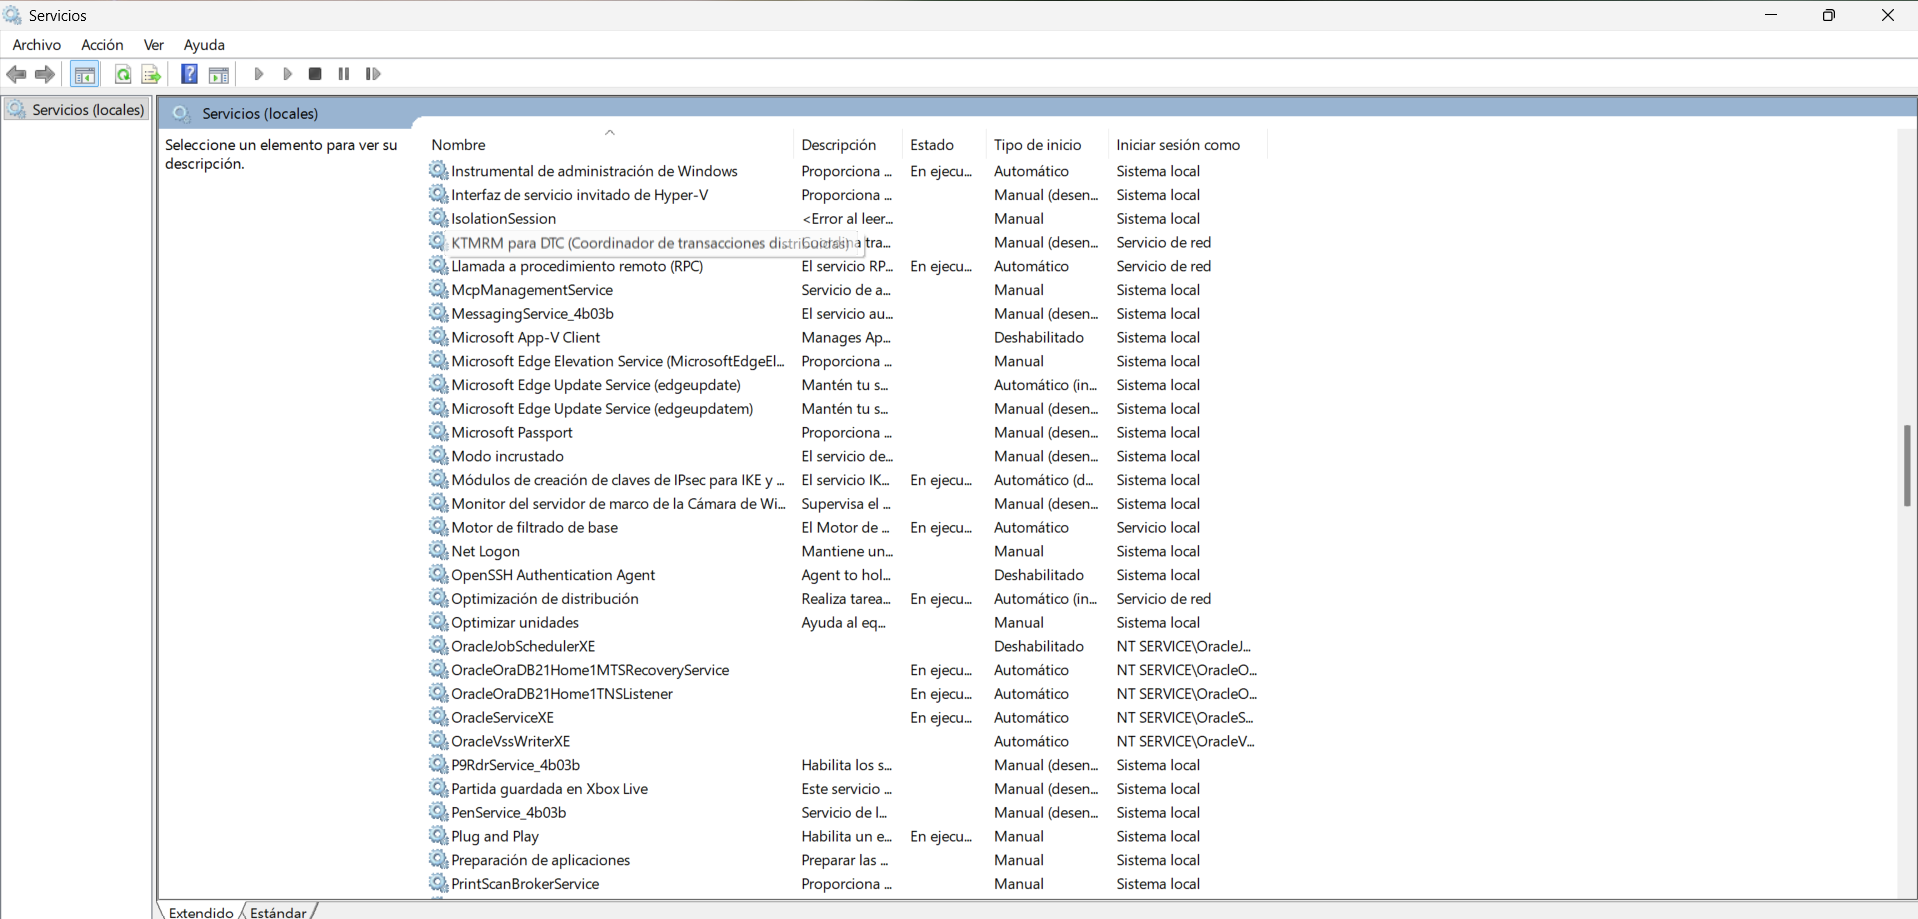
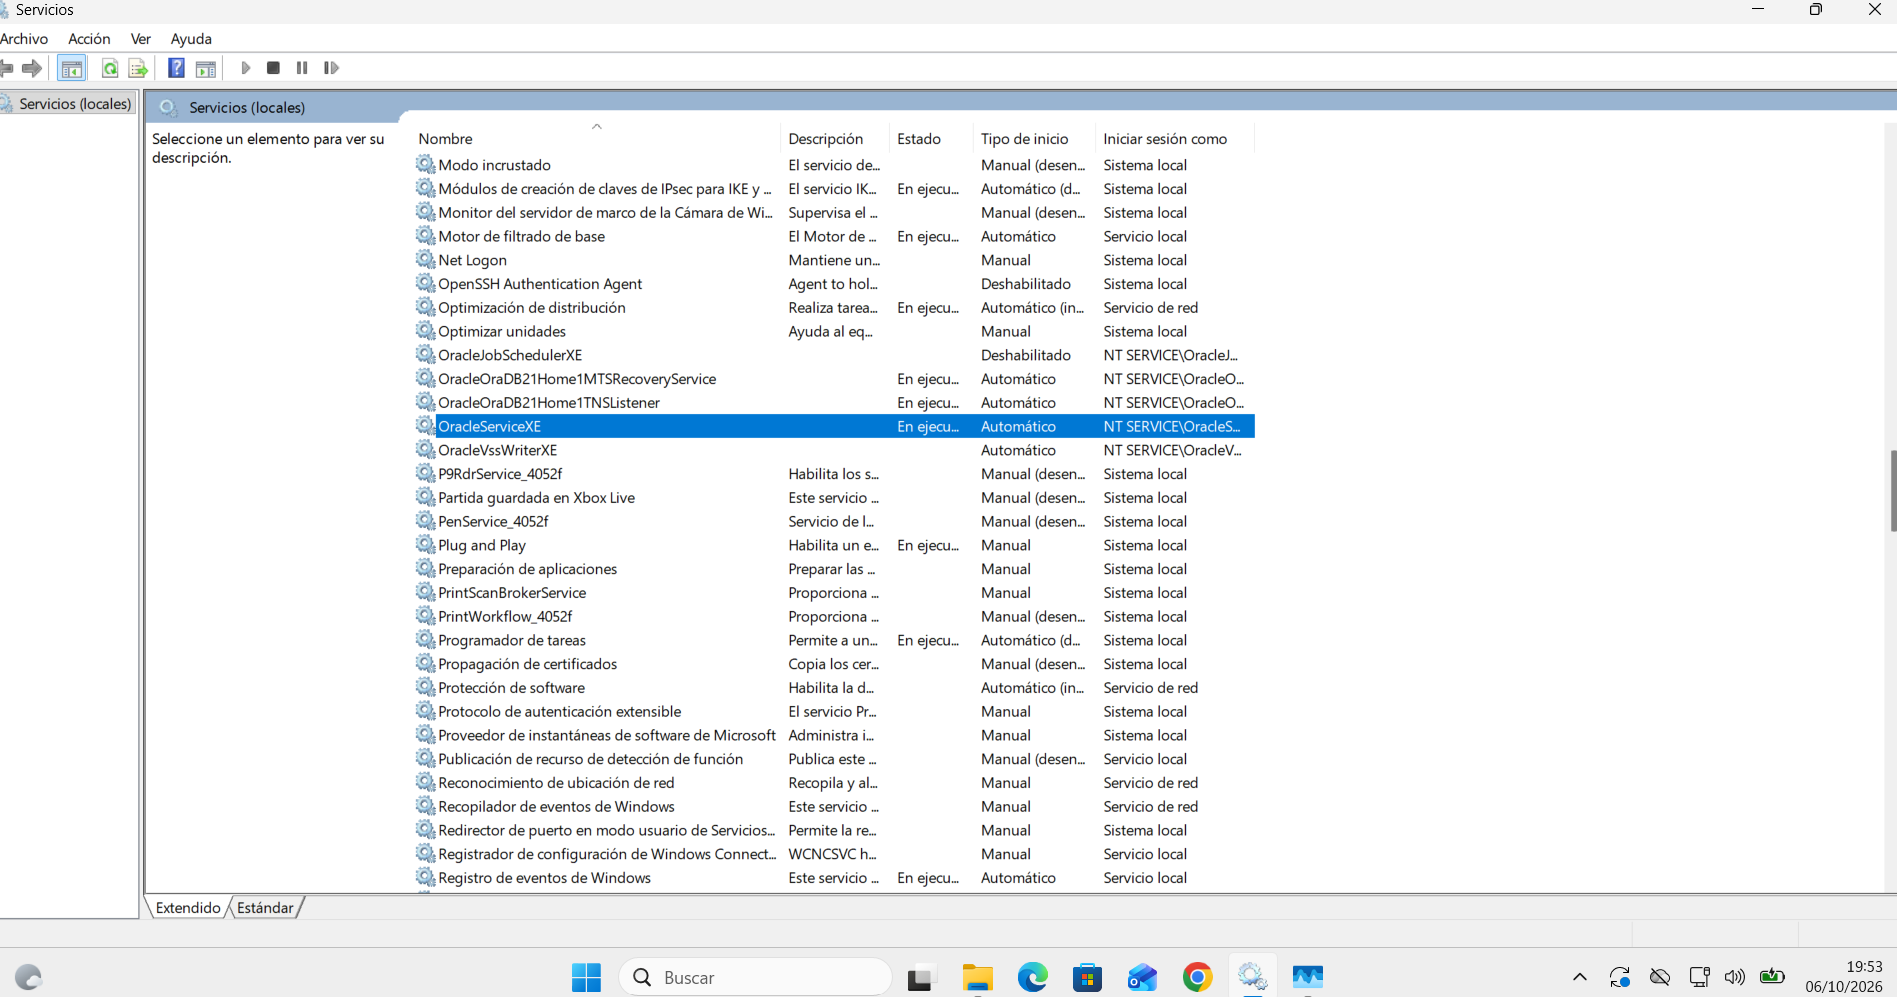
ejercicio semana 4

Changed region(s): [[0.0, 0.0, 1.0, 1.0], [0.9331, 0.0, 0.9953, 0.0305], [0.0, 0.9445, 0.0311, 1.0]]

diff --git a/s4-arquitectura-cliente-servidor/README.md b/s4-arquitectura-cliente-servidor/README.md
@@ -1,0 +1,215 @@
+# Laboratorio Base: Operaciones Cliente-Servidor en Oracle
+
+> **Módulo:** Administración de Sistemas Gestores de Bases de Datos (ASGBD) · ASIR
+> **Tipo:** Laboratorio formativo de entrenamiento (**no evaluable**). Preparación para el Reto 2 de la semana próxima.
+> **Documento:** Manual de operaciones. Se versiona en Git; los cambios se auditan por *commit*.
+
+## Metadatos del operador
+
+| Campo | Valor |
+|---|---|
+| **Alumno/a** | _Nombre y apellidos_ |
+| **Usuario de GitHub** | _@usuario_ |
+| **IP de la VM (Host-Only)** | `192.168.56.X` |
+| **Fecha** | _dd/mm/aaaa_ |
+
+---
+
+## 1. Arquitectura de red
+
+![Diagrama de arquitectura cliente-servidor](img/00_arquitectura.png)
+
+| Rol | Equipo | Software | Red / Puerto |
+|---|---|---|---|
+| **Cliente** | Host físico (PC real) | DBeaver (o SQL Developer) | Adaptador Host-Only del host (`192.168.56.1`) |
+| **Servidor** | Máquina virtual Windows 11 | Oracle Database 21c XE (`OracleServiceXE` + Listener) | Host-Only `192.168.56.X` · **TCP 1521** |
+
+**Principio de operación:** un administrador no trabaja en el escritorio del servidor. El servidor se gestiona por servicios y se consulta **desde un cliente remoto**.
+
+---
+
+## 2. Parte 1 · Ciclo de vida del motor
+
+> ⚠ **ATENCIÓN:** apagar la máquina virtual sin detener antes el motor Oracle puede **corromper los ficheros de datos**. En producción el servicio siempre se detiene de forma controlada antes de tocar la máquina.
+
+### 2.1 Localizar el servicio
+
+En la **VM**: `Win + R` → `services.msc` → localizar **`OracleServiceXE`**.
+
+![services.msc con OracleServiceXE en ejecución](img/01_services_msc_en_ejecucion.png)
+
+### 2.2 Medir la RAM antes de parar
+
+Abrir el **Administrador de tareas** (`Ctrl + Shift + Esc`) → pestaña *Rendimiento* → *Memoria*. Anotar el valor **En uso**.
+
+![Memoria antes de detener el servicio](img/03a_task_manager_antes.png)
+
+### 2.3 Detener el servicio
+
+Clic derecho sobre `OracleServiceXE` → **Detener**. Equivalente por consola (PowerShell como administrador):
+
+```powershell
+Stop-Service -Name OracleServiceXE
+Get-Service  -Name OracleServiceXE
+```
+
+![Servicio OracleServiceXE detenido](img/02_servicio_detenido.png)
+
+### 2.4 Comprobar la RAM liberada
+
+Volver al Administrador de tareas: se liberan **casi 2 GB** al instante. Es la memoria que la instancia (SGA/PGA) tenía reservada.
+
+![Memoria tras detener el servicio](img/03b_task_manager_despues.png)
+
+### 2.5 Volver a iniciar el servicio
+
+Clic derecho → **Iniciar**, o por consola:
+
+```powershell
+Start-Service -Name OracleServiceXE
+Get-Service  -Name OracleServiceXE
+```
+
+![Memoria tras reiniciar el servicio](img/04_servicio_reiniciado_ram.png)
+
+---
+
+## 3. Parte 2 · Conexión y muro de red (Troubleshooting)
+
+### 3.1 Instalar el cliente en el PC **físico**
+
+Descargar e instalar **DBeaver Community** desde <https://dbeaver.io/download/> en el ordenador **real** (no en la VM).
+
+### 3.2 Verificar conectividad con la VM
+
+Desde el **PC físico**, en PowerShell:
+
+```powershell
+ping 192.168.56.X
+Test-NetConnection 192.168.56.X -Port 1521
+```
+
+![Ping y prueba del puerto 1521](img/07_ping_y_puerto.png)
+
+| Resultado | Diagnóstico |
+|---|---|
+| `ping` falla | Problema de red: revisar adaptador Host-Only y la IP (`ipconfig` en la VM) |
+| `ping` OK y `TcpTestSucceeded : False` | **El firewall bloquea el 1521** → ir al apartado 3.3 |
+| `ping` OK y `TcpTestSucceeded : True` | Red correcta → ir al apartado 3.4 |
+
+> 💡 El `ping` también puede estar bloqueado por el firewall de la VM. Si falla, permite el eco ICMPv4 de entrada o continúa con `Test-NetConnection`.
+
+### 3.3 Abrir el puerto 1521 en el Firewall de Windows (en la VM)
+
+**Vía gráfica:**
+
+1. `Win + R` → `wf.msc` (*Firewall de Windows Defender con seguridad avanzada*).
+2. **Reglas de entrada** → **Nueva regla…**
+3. Tipo: **Puerto** → **TCP** → Puertos locales específicos: `1521`.
+4. Acción: **Permitir la conexión**.
+5. Perfil: marcar los perfiles que usa la red Host-Only (Dominio / Privado / Público).
+6. Nombre: `Oracle XE Listener 1521`.
+
+**Vía PowerShell (como administrador), equivalente:**
+
+```powershell
+New-NetFirewallRule -DisplayName "Oracle XE Listener 1521" `
+  -Direction Inbound -Protocol TCP -LocalPort 1521 -Action Allow
+```
+
+![Regla de entrada TCP 1521](img/08_firewall_regla_1521.png)
+
+Repetir `Test-NetConnection 192.168.56.X -Port 1521` hasta obtener `TcpTestSucceeded : True`.
+
+### 3.4 Crear la conexión en DBeaver
+
+| Parámetro | Valor |
+|---|---|
+| **Host** | `192.168.56.X` (IP de la VM, adaptador Host-Only) |
+| **Puerto** | `1521` |
+| **Service Name** | `XE` |
+| **Usuario** | `SYSTEM` |
+| **Contraseña** | La configurada en la sesión anterior |
+
+![Configuración de la conexión en DBeaver](img/05_dbeaver_configuracion.png)
+
+Pulsar **Probar conexión** y después **Finalizar**. Comprobar con un script SQL:
+
+```sql
+SELECT BANNER FROM V$VERSION;
+SELECT INSTANCE_NAME, HOST_NAME, STATUS FROM V$INSTANCE;
+```
+
+![DBeaver conectado desde el PC físico](img/06_dbeaver_conectado.png)
+
+### 3.5 Errores frecuentes
+
+| Error | Causa probable | Solución |
+|---|---|---|
+| `ORA-12541: no listener` | Listener parado | Iniciar el servicio del Listener o ejecutar `lsnrctl start` |
+| `ORA-12514` | *Service Name* incorrecto | Usar `XE` como **Service Name**, no como SID |
+| `ORA-12560: TNS protocol adapter error` | `OracleServiceXE` detenido | Iniciarlo en `services.msc` |
+| Timeout de conexión | Firewall bloqueando el 1521 | Apartado 3.3 |
+
+---
+
+## 4. Parte 3 · Seguridad básica: usuario de explotación
+
+Usar el superusuario `SYSTEM` para el trabajo diario es una **negligencia grave de seguridad**: concentra el máximo privilegio y no permite trazabilidad individual. Se crea un administrador propio y `SYSTEM` queda reservado para emergencias.
+
+En DBeaver: **Editor SQL → Nuevo script** y ejecutar:
+
+```sql
+-- Necesario en 21c XE al trabajar en el contenedor raíz (CDB$ROOT)
+ALTER SESSION SET "_ORACLE_SCRIPT" = TRUE;
+
+CREATE USER admin_udit IDENTIFIED BY clave123;
+GRANT DBA TO admin_udit;
+GRANT CREATE SESSION TO admin_udit;
+
+-- Verificación
+SELECT USERNAME, ACCOUNT_STATUS, CREATED
+  FROM DBA_USERS
+ WHERE USERNAME = 'ADMIN_UDIT';
+```
+
+![Creación del usuario admin_udit](img/09_creacion_usuario_admin.png)
+
+> 🔐 `clave123` es una contraseña **de laboratorio**. En un entorno real se usa una contraseña robusta y **nunca** se publica en un repositorio.
+
+---
+
+## 5. Checklist de evidencias (entrenamiento)
+
+Este laboratorio **no se evalúa**, pero el Reto 2 sí. Practica hoy el proceso completo para dominarlo. Toma estas capturas con **tus propios datos**:
+
+- [ ] `services.msc` con `OracleServiceXE` **detenido**
+- [ ] Administrador de tareas con la **RAM liberada** tras detener el servicio
+- [ ] `services.msc` con `OracleServiceXE` **iniciado de nuevo**
+- [ ] `ping` y `Test-NetConnection` al puerto 1521 desde el PC físico
+- [ ] **Regla de entrada** del puerto 1521 en el Firewall de Windows
+- [ ] **DBeaver conectado** desde el PC físico a la IP de la VM
+- [ ] Script SQL de creación de `admin_udit` ejecutado sin errores
+
+> Guarda las capturas en `img/` y enlázalas desde este `README.md`. Haz `git commit` con un mensaje descriptivo, por ejemplo: `Lab base: conexión DBeaver y usuario admin_udit`.
+
+---
+
+## Estructura del repositorio
+
+```text
+Laboratorio_Base_Oracle/
+├── README.md
+└── img/
+    ├── 00_arquitectura.png
+    ├── 01_services_msc_en_ejecucion.png
+    ├── 02_servicio_detenido.png
+    ├── 03a_task_manager_antes.png
+    ├── 03b_task_manager_despues.png
+    ├── 04_servicio_reiniciado_ram.png
+    ├── 05_dbeaver_configuracion.png
+    ├── 06_dbeaver_conectado.png
+    ├── 07_ping_y_puerto.png
+    ├── 08_firewall_regla_1521.png
+    └── 09_creacion_usuario_admin.png
+```
